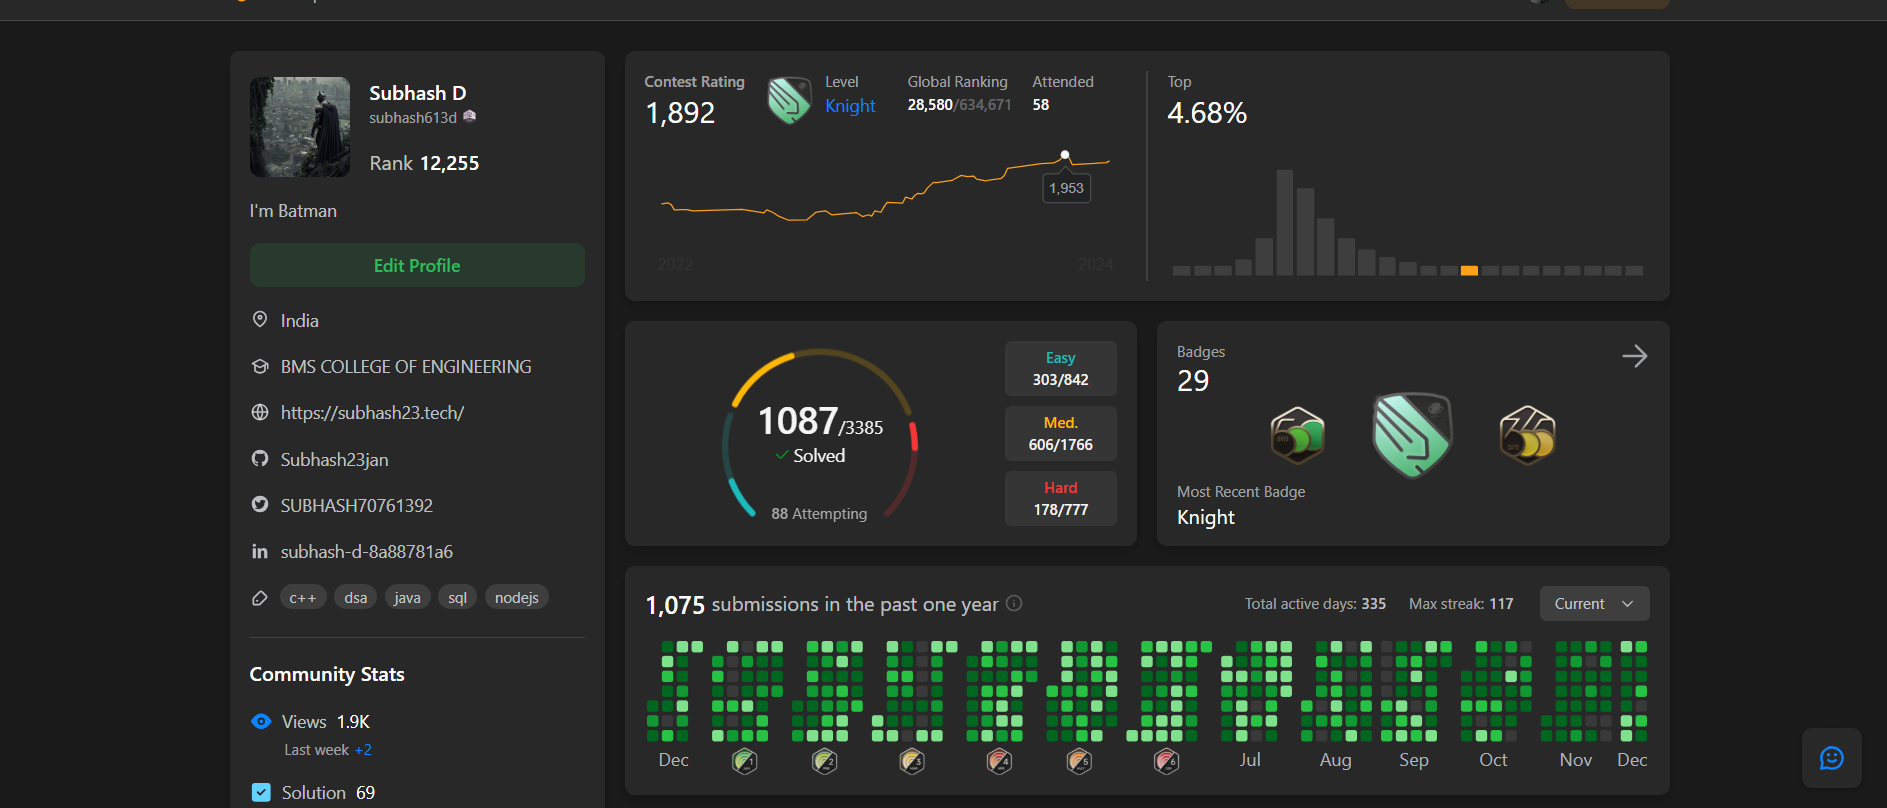
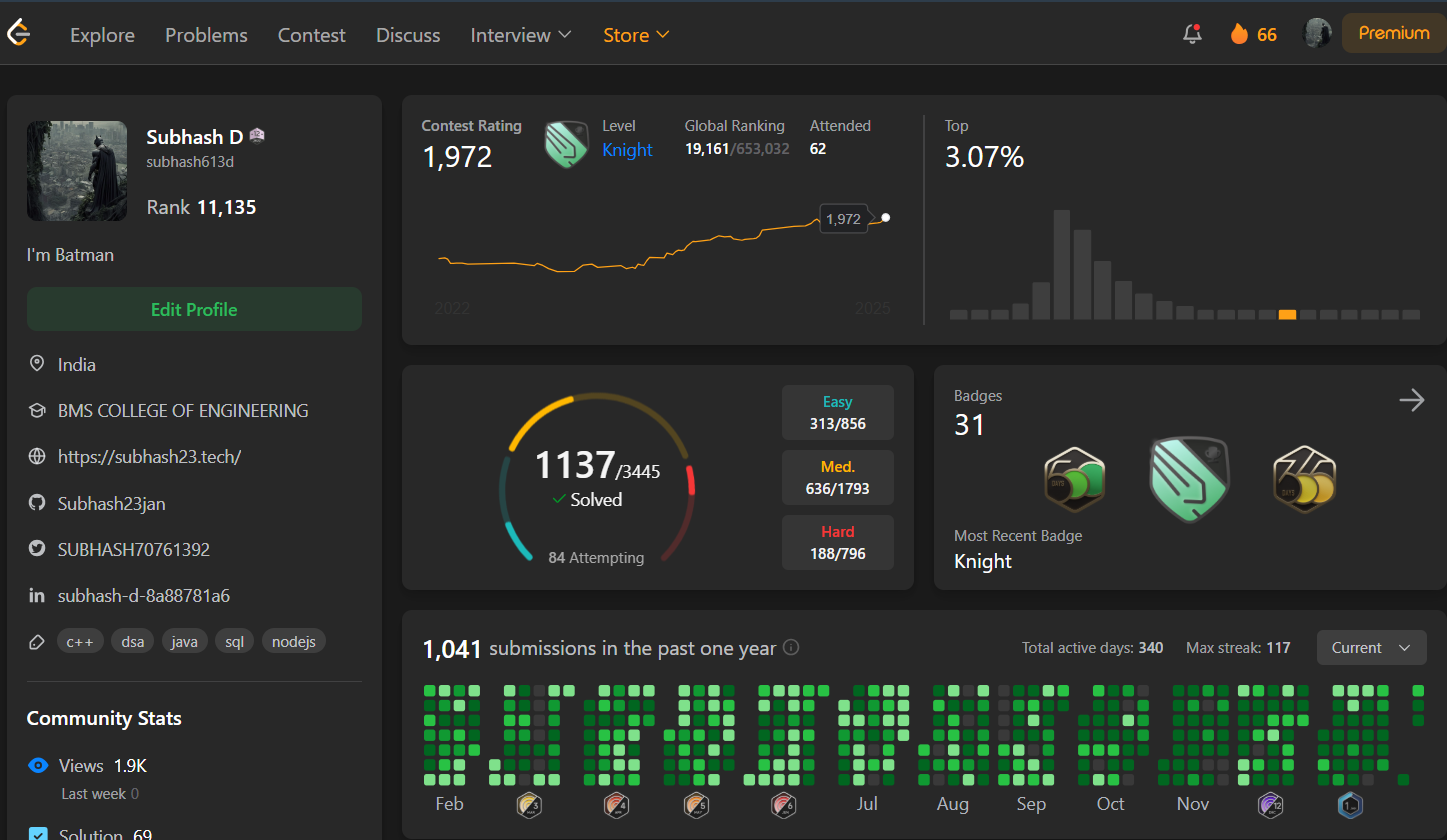
added updated leetcode stats and image

diff --git a/src/components/About.jsx b/src/components/About.jsx
@@ -57,7 +57,7 @@ const About = () => {
                   initial={{ opacity: 0, scale: 0.9 }}
                   whileInView={{ opacity: 1, scale: 1 }}
                   viewport={{ once: true }}
-                  src="/assets/my_images/about_image.jpg"
+                  src="/assets/my_images/batman.jpg"
                   alt="Subhash D"
                   className="rounded-lg shadow-xl w-full max-w-md"
                 />
@@ -92,18 +92,14 @@ const About = () => {
                 ) : (
                   <>
                     <p className="mb-6 text-gray-800">
-                      You're not just skilled in DSA, C++, databases, Java, and Flutter — you
-                      have a remarkable ability to learn, adapt, and apply those skills in
-                      solving real-world problems. Your passion for backend development and
-                      Android highlights your drive for creating efficient, impactful
-                      solutions. With impressive achievements on LeetCode and a strong
-                      foundation in competitive coding, you consistently push yourself to
-                      excel in problem-solving and tackle complex challenges. Your dedication
-                      and hard work set you on a trajectory to achieve remarkable success in
-                      the tech world!
+                        You've built strong expertise in backend development, databases (SQL & NoSQL), and C++. You're highly
+                        skilled in problem-solving, with a LeetCode Knight status and a 1950+ rating, ranking in the top 3%. You’ve contributed to open-source projects, including GSSOC, and worked on role-based backend systems.
+                        Your experience spans internships in Flutter, backend, and RLHF-based LLM training.
+                        You’re currently preparing for an SDE New Grad interviews, focusing on OS and Linux.
+                        You also have a keen interest in security, AI model evaluation, and performance optimization.
                     </p>
                     <p className="text-sm text-gray-500 mb-4">
-                      Prompt for the ChatGPT was "Tell me more things about me"
+                      Prompt for the ChatGPT : "Tell me more things about me"
                     </p>
 
                     {/* Close Button */}
